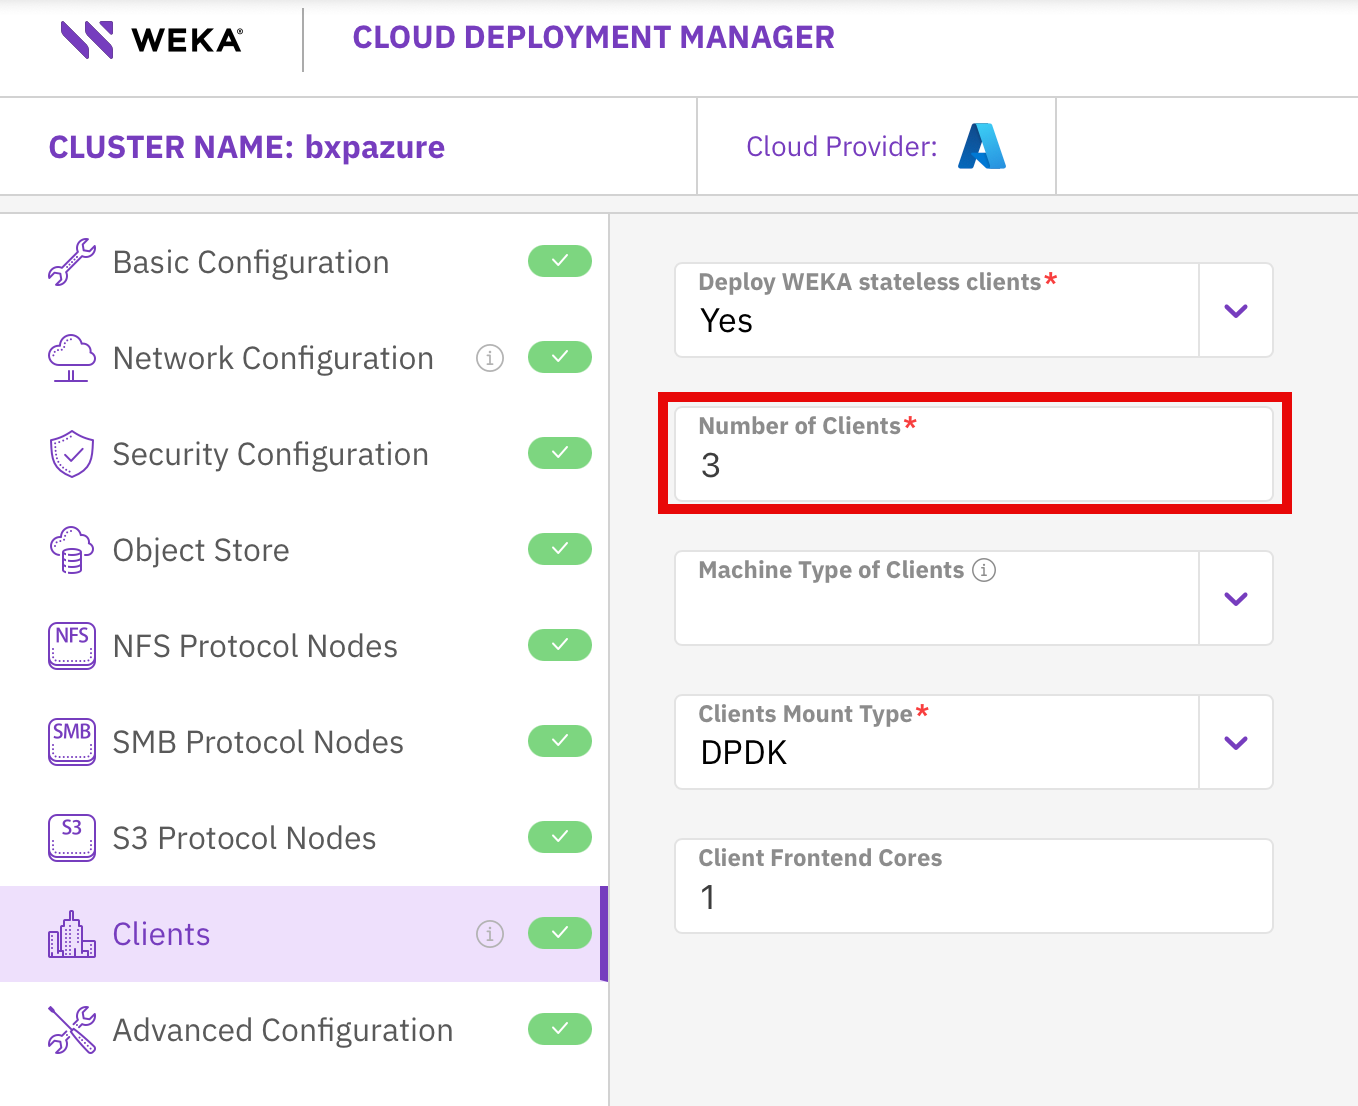
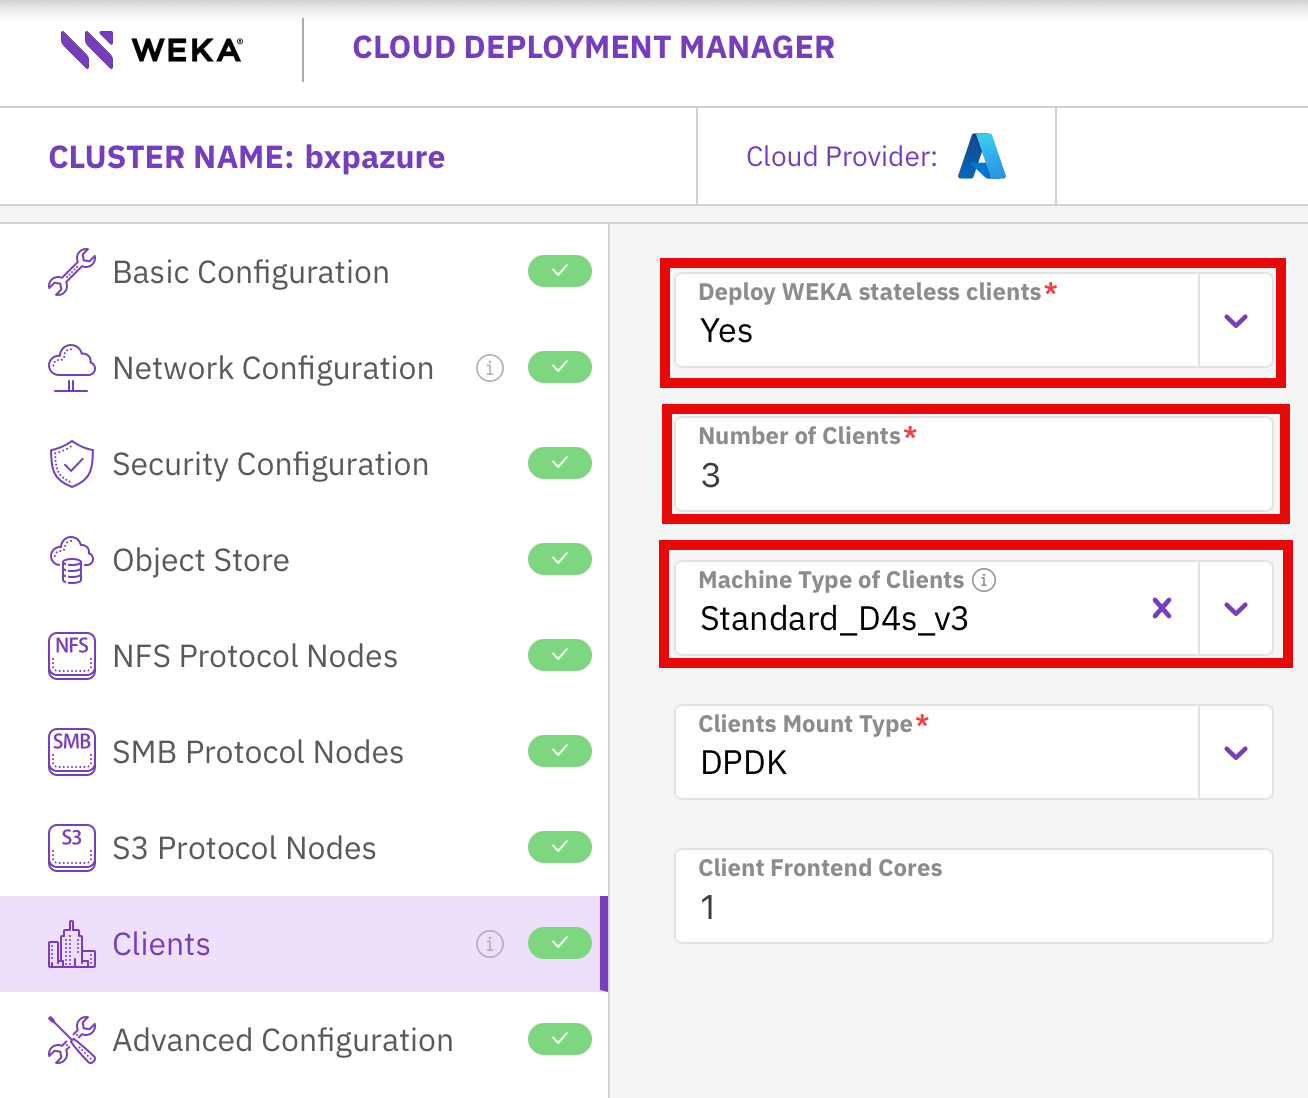
updates

diff --git a/source/create_azure_cluster/create_azure_cluster.md b/source/create_azure_cluster/create_azure_cluster.md
@@ -60,7 +60,11 @@ We are using 0.0.0.0/0 only in the lab so we can connect remotely. In a producti
 :alt: CDM Security
 ```
 
-5.  On the Clients  page change "Number of Clients to **3**.  These clients will be used to generate test data that will be restored witn Snap2Obj.
+5.  On the Clients page change 
+    - Change "Deploy WEKA stateless clients" to **yes**
+    - Set "Number of Clients to **3**.
+    - Change :Machine Type of Clients" to **Standard_D4s_v3**
+
 
 ```{image} ./images/cdm_clients.png
 :width: 50%
